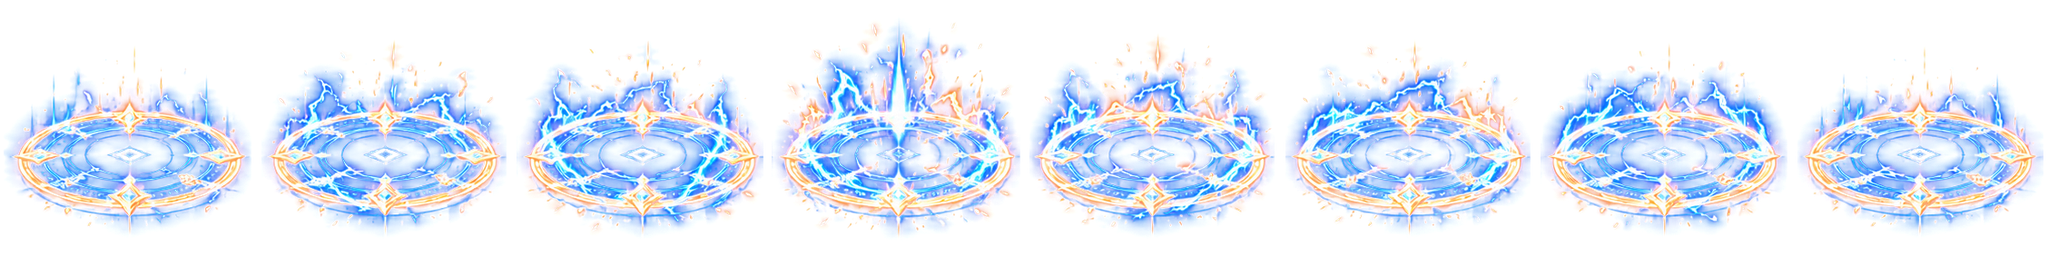
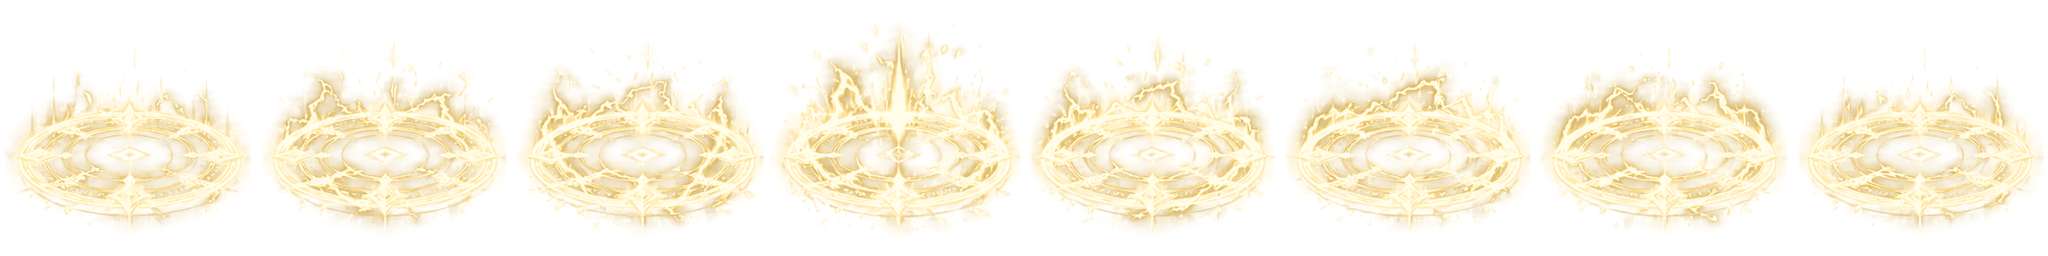
Warrior quality review, fourth step: Blade Storm's vortex of crimson spectral swords (closing in, flung up), Sanctuary's turning holy rune ring, Judgment Blade all HOLY (its own pale-gold bolt, rune ring, flash) with its pillar behind the pinned foe and softer; board
Claude-Session: https://claude.ai/code/session_0179BFGqN9ps681Yef5tVH6E

diff --git a/src/skills/SkillFx.ts b/src/skills/SkillFx.ts
@@ -186,6 +186,7 @@ export function preloadSkillFx(scene: Phaser.Scene, classes?: readonly string[])
       ['afx-fire', 'fire_burst', 320, 320], ['afx-rootband', 'roots_band', 640, 160], ['afx-tree2', 'tree_light', 360, 540], ['afx-heavy', 'heavy_arrow', 320, 480], ['afx-raura', 'rain_aura', 300, 450],
       ['afx-strike', 'floor_strike', 512, 256], ['afx-roar', 'roar_ring', 512, 256], ['afx-bcharge', 'bolt_charge', 320, 320], ['afx-rise', 'rise_thin', 240, 480]] as const) if (!scene.textures.exists(k)) scene.load.spritesheet(k, `${AF}/${f}.png`, { frameWidth: w, frameHeight: h }); // the painted round-3 set
     if (!scene.textures.exists('jb-bolt')) scene.load.spritesheet('jb-bolt', `${F}/skills/warrior/judgment_blade/bolt.png`, { frameWidth: 256, frameHeight: 512 }); // Thunder Rain: the warrior's blue lightning
+  if (!scene.textures.exists('jb-bolt-holy')) scene.load.spritesheet('jb-bolt-holy', `${F}/skills/warrior/judgment_blade/bolt_holy.png`, { frameWidth: 256, frameHeight: 512 }); // Thunder Rain: the warrior's blue lightning // (the Judge's own bolt in HOLY pale gold; the Archer keeps the blue one)
     I('afx-apple', `${AF}/apple.png`); for (let i = 1; i < 4; i++) I(`afx-apple-${i}`, `${AF}/apple_${i}.png`); I('afx-roots', `${AF}/roots.png`);
     L('afx-fan', `${AF}/release_fan.png`, 512, 256); L('afx-triple', `${AF}/triple_trail.png`, 512, 256); L('afx-storm', `${AF}/storm_top.png`, 512, 256); L('afx-eagle', `${AF}/eagle_top.png`, 512, 256); L('vfx-evasion', `${F}/skills/archer/evasion/vfx.png`, 256);
     I('archer-cutin', `${F}/skills/archer/sky_rain/cutin.webp`);
@@ -399,7 +400,14 @@ export class SkillFx {
       this.scene.time.delayedCall(Math.round(r.timings.startup * 0.7), () => this.bannerPlant(bx, by, 10000));
     }
     else if (s.id === 'radiant_blade') { /* lightning fired by the scene at the real sword tip */ }
-    else if (s.id === 'sanctuary') { /* the wall itself is the effect: no ring on the floor */ }
+    else if (s.id === 'sanctuary') { // the wall is the effect; a ring of holy runes turns slowly on the floor round him while it stands (DFO's review, HOLY)
+      const c = this.casterPos(r.attackerId) ?? r.origin;
+      const ring = this.scene.add.image(0, 0, 'magic-circle').setBlendMode(Phaser.BlendModes.ADD).setTint(0xfff0b8).setDisplaySize(300, 300);
+      const plane = this.scene.add.container(c.x, c.y, [ring]).setScale(1, 0.42).setDepth(GROUND + 2).setAlpha(0);
+      this.scene.tweens.add({ targets: plane, alpha: 0.42, duration: 300, delay: s.startup * 0.6 });
+      this.scene.tweens.add({ targets: ring, angle: -160, duration: 4400 });
+      this.scene.tweens.add({ targets: plane, alpha: 0, delay: 3600, duration: 800, onComplete: () => plane.destroy() });
+    }
     else if (s.id === 'blade_storm' && this.scene.textures.exists('bs-storm')) this.lightningStorm(r);
     else if (s.id === 'titans_verdict' && this.scene.textures.exists('titan-dragon')) this.dragon(r);
     else if (s.id === 'ground_breaker') this.quakeBurst(r);
@@ -644,6 +652,28 @@ export class SkillFx {
     this.anims.push({ img, t: 0, total: fms.reduce((x, y) => x + y, 0), frames: fr, frameMs: fms, fadeLast: 260, loop: [6, 11], until: T.startup + T.active,
       follow: () => { const p = this.casterPos(r.attackerId); return p ? { x: p.x, y: p.y + 6, z: 0 } : null; } });
     this.scene.time.delayedCall(Math.round(up * 0.85), () => (this.cam ?? this.scene.cameras.main).shake(220, 0.007));
+    this.bladeVortex(r);
+  }
+
+  /** Blade Storm (DFO's review, CRIMSON): a vortex of spectral swords whirling round the storm in front of him, point-down,
+   *  closing in while it lasts, then flung up at its end. */
+  private bladeVortex(r: CastRun): void {
+    if (!this.scene.textures.exists('phantom-blade')) return;
+    const T = r.timings, a = r.aim, N = 6, life = T.active, swords: Phaser.GameObjects.Image[] = [];
+    for (let i = 0; i < N; i++) swords.push(this.scene.add.image(0, 0, 'phantom-blade', 2 + (i % 2)).setOrigin(0.5, 0.85).setBlendMode(Phaser.BlendModes.NORMAL).setDisplaySize(92, 92).setAlpha(0));
+    let t = -T.startup;
+    const ev = this.scene.time.addEvent({ delay: 16, loop: true, callback: () => {
+      t += 16;
+      const c = this.casterPos(r.attackerId) ?? r.origin, cx = c.x + a.x * 90, cy = c.y + a.y * 50;
+      if (t < 0) return;
+      const k = Math.min(1, t / life), fling = t > life ? (t - life) / 260 : 0;
+      if (fling >= 1) { ev.remove(); for (const sw of swords) sw.destroy(); return; }
+      const R = 130 - 50 * k, spin = t / 210;
+      swords.forEach((sw, i) => {
+        const th = spin + (i / N) * Math.PI * 2, sn = Math.sin(th), z = 70 + 14 * Math.sin(t / 120 + i) + fling * 320;
+        sw.setPosition(cx + Math.cos(th) * R, cy + sn * R * 0.38 - z).setDepth(cy + sn * 40).setAngle(Math.cos(th) * 18).setAlpha(Math.min(1, t / 140) * (1 - fling) * (sn > 0 ? 0.95 : 0.6));
+      });
+    } });
   }
 
   /** Titan's Verdict: a colossal lightning dragon dives from the sky onto the target zone (after the cut-in and screen split). */
@@ -692,11 +722,12 @@ export class SkillFx {
   /** Judgment Blade: the light-sword is hurled forward on an arc, plants itself, and a storm ring crackles around it for 5s. */
   private judgment(r: CastRun): void {
     const key = vfxKey('judgment_blade'), T = r.timings;
+    const jbKey = this.scene.textures.exists('jb-bolt-holy') ? 'jb-bolt-holy' : 'jb-bolt';
     let a = r.aim, land = { x: r.origin.x + a.x * 150, y: r.origin.y + a.y * 150 };
     const aimNow = () => { a = r.aim; const c = this.casterPos(r.attackerId) ?? r.origin; land = { x: c.x + a.x * 150, y: c.y + a.y * 150 }; };
     // Charge-up in the air: a cyan Zeus thunderbolt crackles in the raised fist, gripped through its middle.
     const BW = 125, BH = 250; // on-screen size of the bolt (256x512 art)
-    const charge = this.scene.add.image(0, 0, 'jb-bolt', 0).setOrigin(0.5, 0.475).setBlendMode(Phaser.BlendModes.ADD).setDisplaySize(BW * 0.6, BH * 0.6).setAlpha(0);
+    const charge = this.scene.add.image(0, 0, jbKey, 0).setOrigin(0.5, 0.475).setBlendMode(Phaser.BlendModes.ADD).setDisplaySize(BW * 0.6, BH * 0.6).setAlpha(0);
     const mark = this.scene.add.graphics().setBlendMode(Phaser.BlendModes.ADD).setDepth(GROUND + 3);
     const drawMark = (t: number) => {
       const p = 0.5 + 0.5 * Math.sin(t / 120); mark.clear();
@@ -748,11 +779,11 @@ export class SkillFx {
         cam.shake(90, 0.006);
         // 2) the throw: very fast dart with afterimages
         const from = { x: h.x - Math.cos(ang) * 22, y: h.y - Math.sin(ang) * 22 - 6 };
-        const fly = this.scene.add.image(from.x, from.y, 'jb-bolt', 6).setOrigin(0.5, 0.5).setBlendMode(Phaser.BlendModes.ADD).setDisplaySize(BW * 1.1, BH * 1.25).setDepth(TOP).setRotation(rot);
+        const fly = this.scene.add.image(from.x, from.y, jbKey, 6).setOrigin(0.5, 0.5).setBlendMode(Phaser.BlendModes.ADD).setTint(0xfff0b8).setDisplaySize(BW * 1.1, BH * 1.25).setDepth(TOP).setRotation(rot);
         const st = { p: 0 };
         this.scene.tweens.add({ targets: st, p: 1, duration: 130, ease: 'Quad.easeIn', onUpdate: () => {
           const x = from.x + (to.x - from.x) * st.p, y = from.y + (to.y - from.y) * st.p; fly.setPosition(x, y);
-          const ghost = this.scene.add.image(x, y, 'jb-bolt', 6).setBlendMode(Phaser.BlendModes.ADD).setDisplaySize(BW, BH * 1.2).setRotation(rot).setDepth(TOP - 1).setAlpha(0.45).setTint(0x6fc8ff);
+          const ghost = this.scene.add.image(x, y, jbKey, 6).setBlendMode(Phaser.BlendModes.ADD).setDisplaySize(BW, BH * 1.2).setRotation(rot).setDepth(TOP - 1).setAlpha(0.45).setTint(0xfff0b8);
           this.scene.tweens.add({ targets: ghost, alpha: 0, duration: 150, onComplete: () => ghost.destroy() });
         }, onComplete: () => {
           fly.destroy();
@@ -760,14 +791,14 @@ export class SkillFx {
           const bolt = this.scene.add.graphics().setBlendMode(Phaser.BlendModes.ADD).setDepth(TOP);
           zig(bolt, land.x + (Math.random() - 0.5) * 40, land.y - 520, land.x, land.y, 12, 16); zig(bolt, from.x, from.y, land.x, land.y - 10, 8, 10);
           this.scene.tweens.add({ targets: bolt, alpha: 0, duration: 220, onComplete: () => bolt.destroy() });
-          const burst = this.scene.add.image(land.x, land.y - 20, 'dmg-glow').setBlendMode(Phaser.BlendModes.ADD).setTint(0xbff4ff).setDepth(TOP).setDisplaySize(120, 90);
+          const burst = this.scene.add.image(land.x, land.y - 20, 'dmg-glow').setBlendMode(Phaser.BlendModes.ADD).setTint(0xfff0b8).setDepth(TOP).setDisplaySize(120, 90);
           this.scene.tweens.add({ targets: burst, displayWidth: 420, displayHeight: 260, alpha: 0, duration: 260, ease: 'Cubic.easeOut', onComplete: () => burst.destroy() });
-          const img = this.scene.add.image(land.x, land.y + 6, 'jb-bolt', 7).setOrigin(0.5, 0.95).setDepth(land.y + 1).setBlendMode(Phaser.BlendModes.ADD).setDisplaySize(BW * 1.25, BH * 1.25);
+          const img = this.scene.add.image(land.x, land.y + 6, jbKey, 7).setOrigin(0.5, 0.95).setDepth(land.y - 2).setBlendMode(Phaser.BlendModes.ADD).setDisplaySize(BW, BH * 1.15).setAlpha(0.6); img.setData('a0', 0.6); // (behind the pinned foe, softer: the pillar of light no longer hides him for its whole 5 s)
           const fms = [90, 110, 110, 110, 280];
           this.anims.push({ img, t: 0, total: fms.reduce((x, y) => x + y, 0), frames: [7, 8, 9, 10, 11], frameMs: fms, fadeLast: 280, loop: [1, 3], until: 5000 });
-          this.shockwave(land.x, land.y, 170, 0xffffff); this.scene.time.delayedCall(70, () => this.shockwave(land.x, land.y, 280, 0x6fe0ff));
+          this.shockwave(land.x, land.y, 170, 0xfff0b8); this.scene.time.delayedCall(70, () => this.shockwave(land.x, land.y, 280, 0xffd27a));
           this.spark(IMPACT.warrior.key, land.x, land.y - 30, IMPACT.warrior.frames, 200, 1);
-          this.screenFlash(0x96e1ff, 0.16, 160); cam.shake(240, 0.011); // (a soft flash: no full-screen white-out)
+          this.screenFlash(0xfff0b8, 0.12, 160); cam.shake(240, 0.011); // (a soft flash: no full-screen white-out)
           this.stormRing(land.x, land.y, 5000);
         } });
       });
@@ -778,7 +809,7 @@ export class SkillFx {
   stormRing(x: number, y: number, ms: number): void {
     if (this.scene.textures.exists('storm-ring')) {
       const img = this.scene.add.image(x, y, 'storm-ring', 0).setOrigin(0.5, 0.6).setDepth(GROUND + 1.5).setBlendMode(Phaser.BlendModes.ADD).setDisplaySize(310, 310).setAlpha(0);
-      this.scene.tweens.add({ targets: img, alpha: 1, duration: 150 });
+      this.scene.tweens.add({ targets: img, alpha: 0.75, duration: 150 });
       const ev = this.scene.time.addEvent({ delay: 80, loop: true, callback: () => img.setFrame((Number(img.frame.name) + 1) % 8) });
       this.scene.tweens.add({ targets: img, alpha: 0, delay: ms - 250, duration: 250, onComplete: () => { ev.remove(); img.destroy(); } });
       return;

diff --git a/tools/skills/wtone.py b/tools/skills/wtone.py
@@ -23,6 +23,7 @@ SHEETS = {  # skill dir / file : family
     'warrior_basic/vfx': 'STEEL', 'dash_slash/vfx': 'STEEL', 'whirlwind/vfx': 'STEEL', 'lance_thrust/vfx': 'STEEL', 'sky_breaker/vfx': 'STEEL',
     'ground_breaker/vfx': 'STONE', 'leap_crash/vfx': 'STONE', 'earthsplitter/vfx': 'STONE',
     'iron_grip/vfx': 'IRON', 'judgment_hook/vfx': 'IRON', 'shield_charge/vfx': 'IRON',
+    'judgment_blade/ring': 'HOLY',  # (bolt.png stays blue for the Archer's lightning arrow; the Judge's copy: python3 -c tone(orig bolt,'HOLY') → bolt_holy.png)
     'war_cry/vfx': 'CRIMSON', 'sanctuary/vfx': 'HOLY',  # (sanctuary/vfx: War Cry's original sheet in HOLY — it used to borrow War Cry's) 'lions_maw/vfx': 'CRIMSON', 'blade_storm/storm': 'CRIMSON', 'blade_storm/erupt_a': 'CRIMSON', 'blade_storm/phantom': 'CRIMSON',
 }
 

diff --git a/docs/BOARD.md b/docs/BOARD.md
@@ -253,6 +253,7 @@ Take the whole PvP up a level in everything — dynamics, skills, effects, hit f
 - Warrior: DFO's quality review, first pass — the five families: every painted sheet re-toned into its family by `tools/skills/wtone.py` and drawn NORMAL so the colour holds on the red planks (STEEL white: basic, Dash, Whirlwind, Impaling Rush, Sky Breaker · STONE rock + molten cracks: Ground Breaker, Leap Crash, Earthsplitter · IRON cold blue: Iron Grip, Judgment Hook, Shield Charge · CRIMSON deep red: War Cry, Lion's Maw, Blade Storm · HOLY pale gold: Judgment Blade, Sanctuary, Titan's Verdict); the hit sparks in the skill's family (5 toned sets), the cast aura and floor rings in its family colour (no more gold halo on every cast); Fx3D recipes rewritten per family (steel arcs and thrust hail, stone cracks + chunks + spikes along Earthsplitter's fissure, iron implosion on the grip, holy pillar / bolt, crimson domes and bolts); Iron Grip's burst a size down. New body moves (PixVerse): Earthsplitter its own (raise two-handed, hold straining, the chop into the floor — it played `finisher`), and the basic chain's first three strikes their own frames (flat cut, backhand down, rising cut; the 4th keeps the heavy chop) — HERO_PLANS `warrior_basic#1..3`. Filmed in PVP 3D. Next: the per-skill shape work (Lion's Maw's lion, Judgment Hook's chain, Dash's afterimages, Sanctuary's rune ring, Wave Slash's own sheet — painted when GPT is back).
 - Warrior: quality review, second step — Earthsplitter's charge is STONE now (cracks open round his feet at each level, dust, molten heat instead of holy flames), Sanctuary has its own HOLY sheet (it borrowed War Cry's, now crimson), Dash Slash leaves steel afterimages along the dash (online foe too), the basic chain checked stage by stage (its own frame each, the 4th the heavy chop). Filmed in PVP 3D.
 - Warrior: quality review, third step — War Cry's buff all CRIMSON (the aura, rising streaks, rim light, eyes, the blade of light and its swing trail — they were gold over every skill), its mandala a size down, the orbiting spectral shields removed (no shield, David); Earthsplitter's fissure thrusts DFO's stone spikes. Read as their family in PVP 3D: Lion's Maw (crimson lion), Judgment Hook (iron chain links), Shield Charge (iron hex barrier breaking into shards), Impaling Rush (steel thrust cone), Whirlwind (steel rings), Rising Slash (crimson tear).
+- Warrior: quality review, fourth step — Blade Storm: a vortex of six crimson spectral swords whirling point-down round the storm, closing in, flung up at its end; Sanctuary: a ring of holy runes turning on the floor while the wall stands; Judgment Blade all HOLY (its own pale-gold bolt copy — the Archer keeps the blue one —, rune ring, flash and shockwaves gold) and its 5-s pillar behind the pinned foe at 60% (it hid him); filmed in PVP 3D.
 - Gambler: animated ultimate cut-in (PixVerse, keyed, 18 frames over ~0.78 s: the card flicks, flares into a fuchsia lightning burst, settles) — in GamblerFx.cutIn, same in the regular game and PvP
 - Gambler: hit-spark set (normal card-pop / heavy card blast / launch spark geyser / crit-counter gold cross) — 92707bd9 (the gold cross shows on COUNTER now that SkillFx passes the flag)
 - Gambler: Staff Vault visuals follow its new hits (BALANCE_LOG 2026-10-11) — b6c437bb
